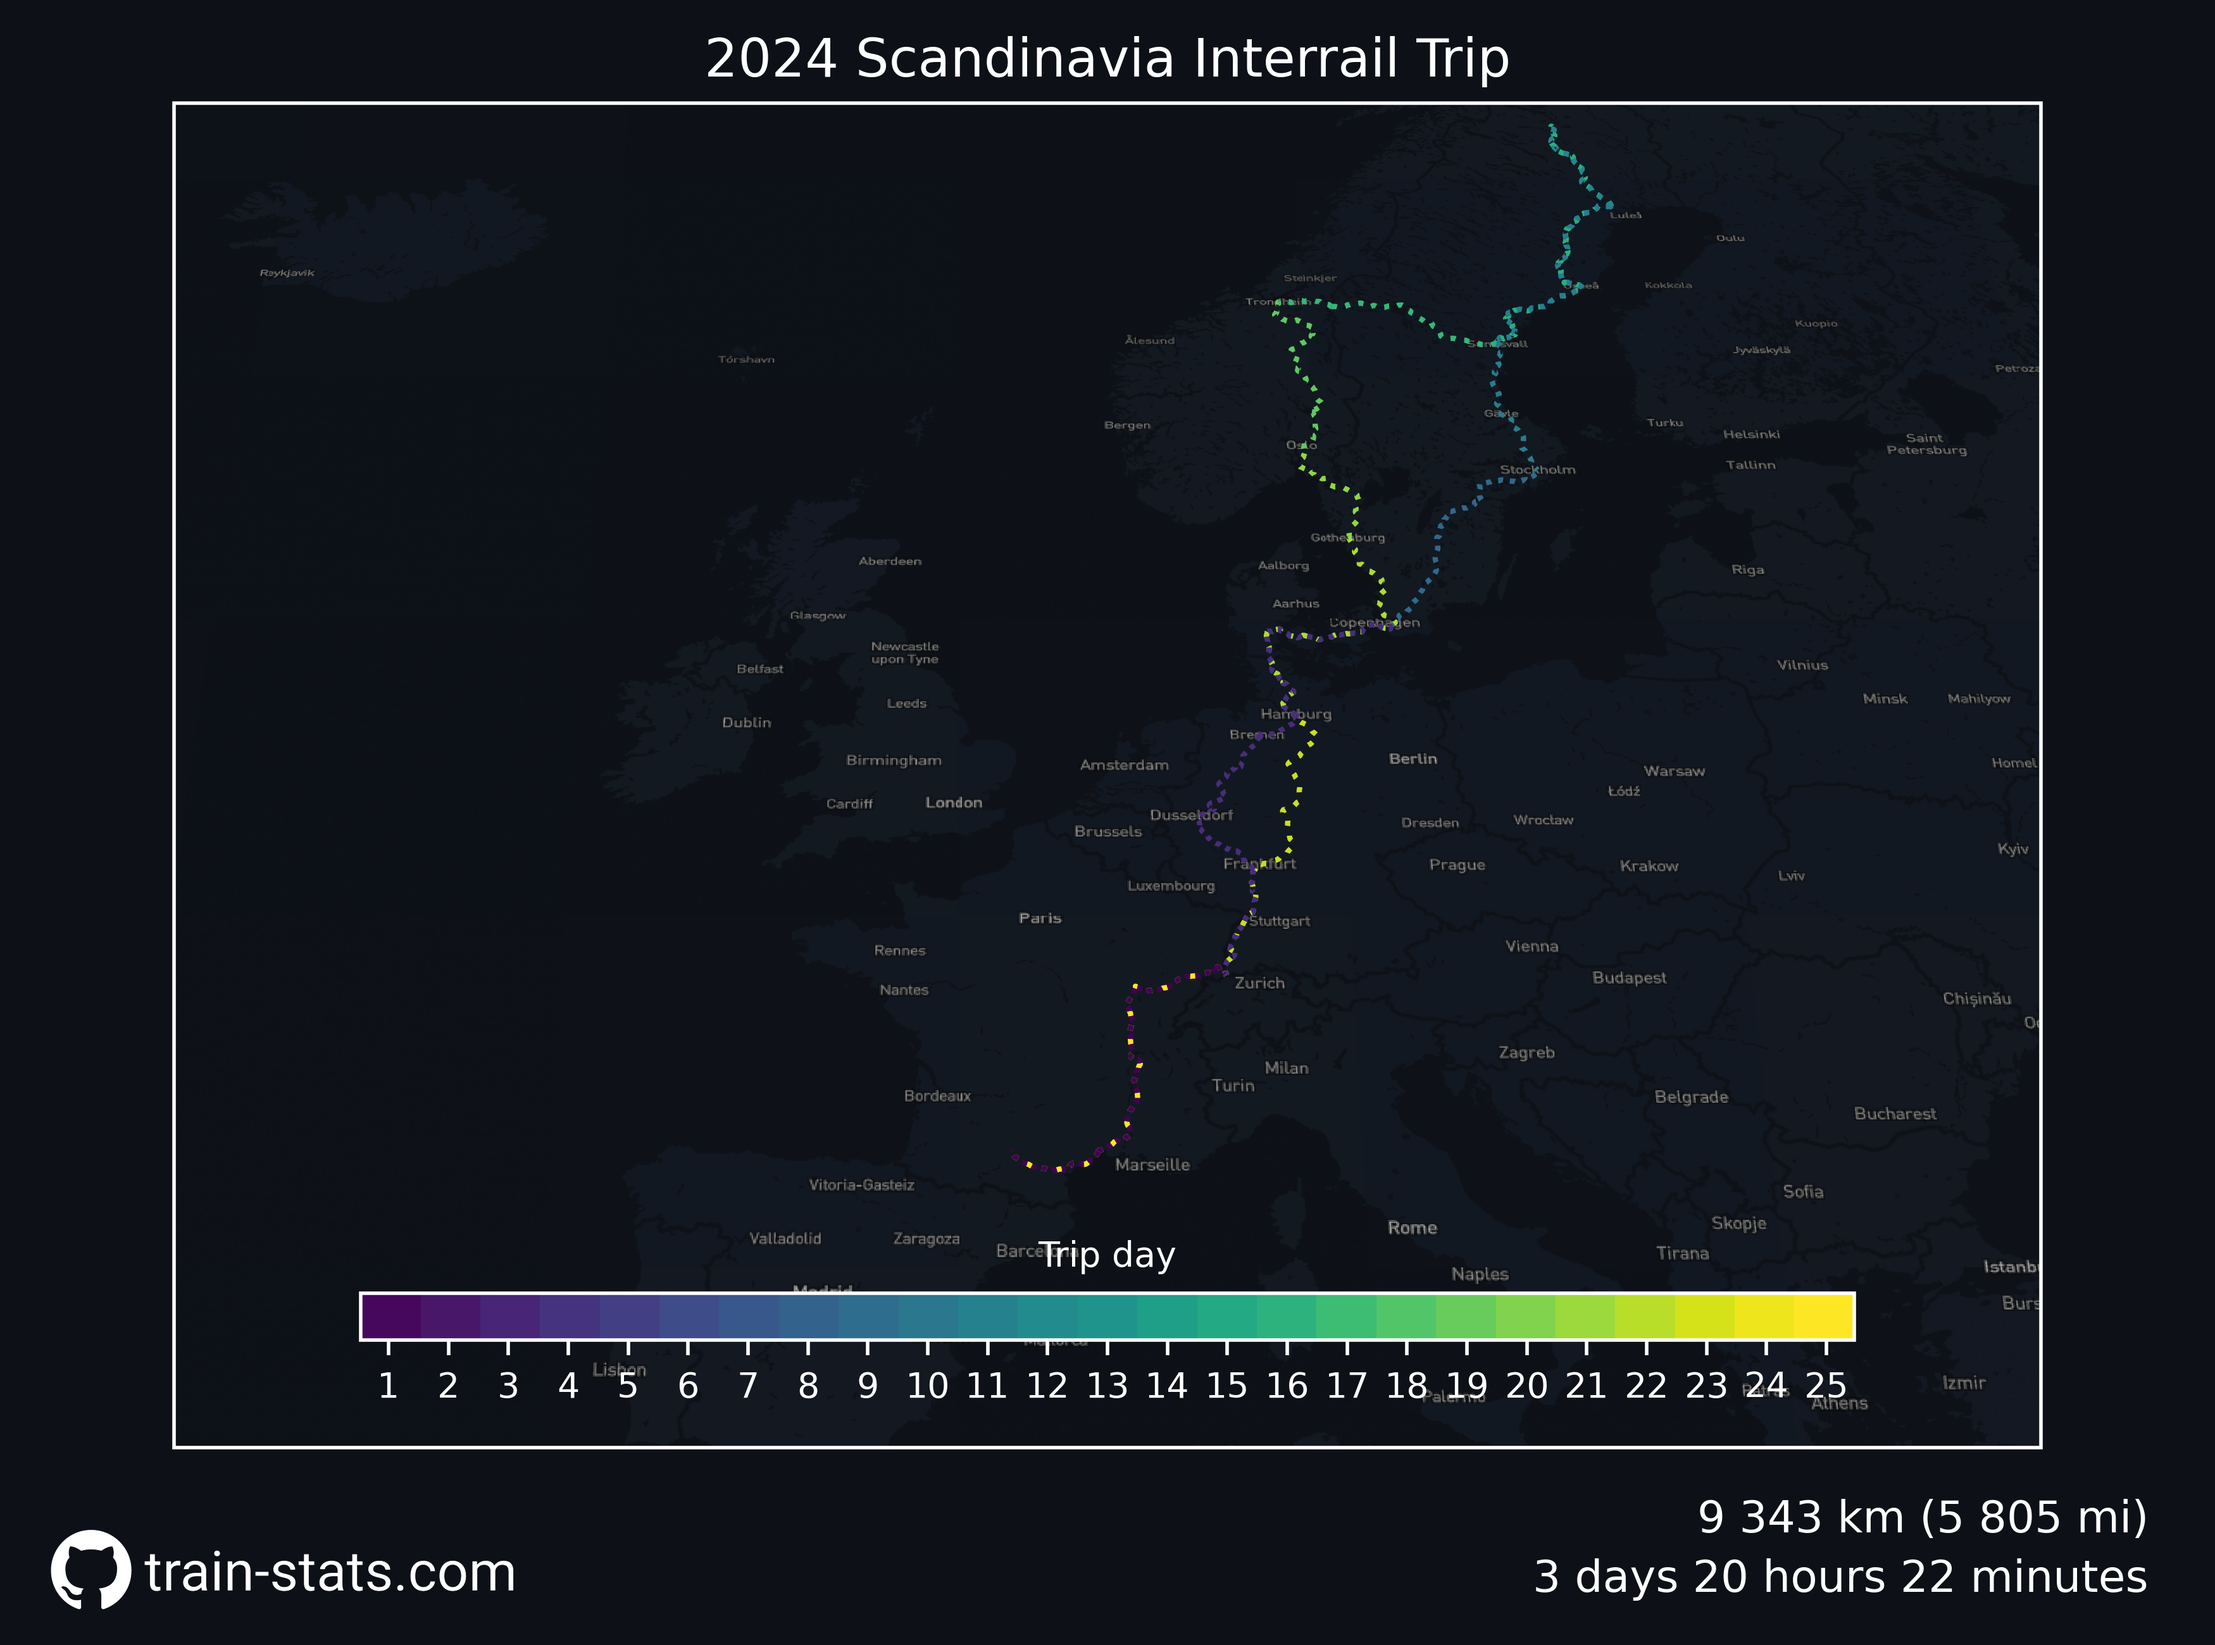
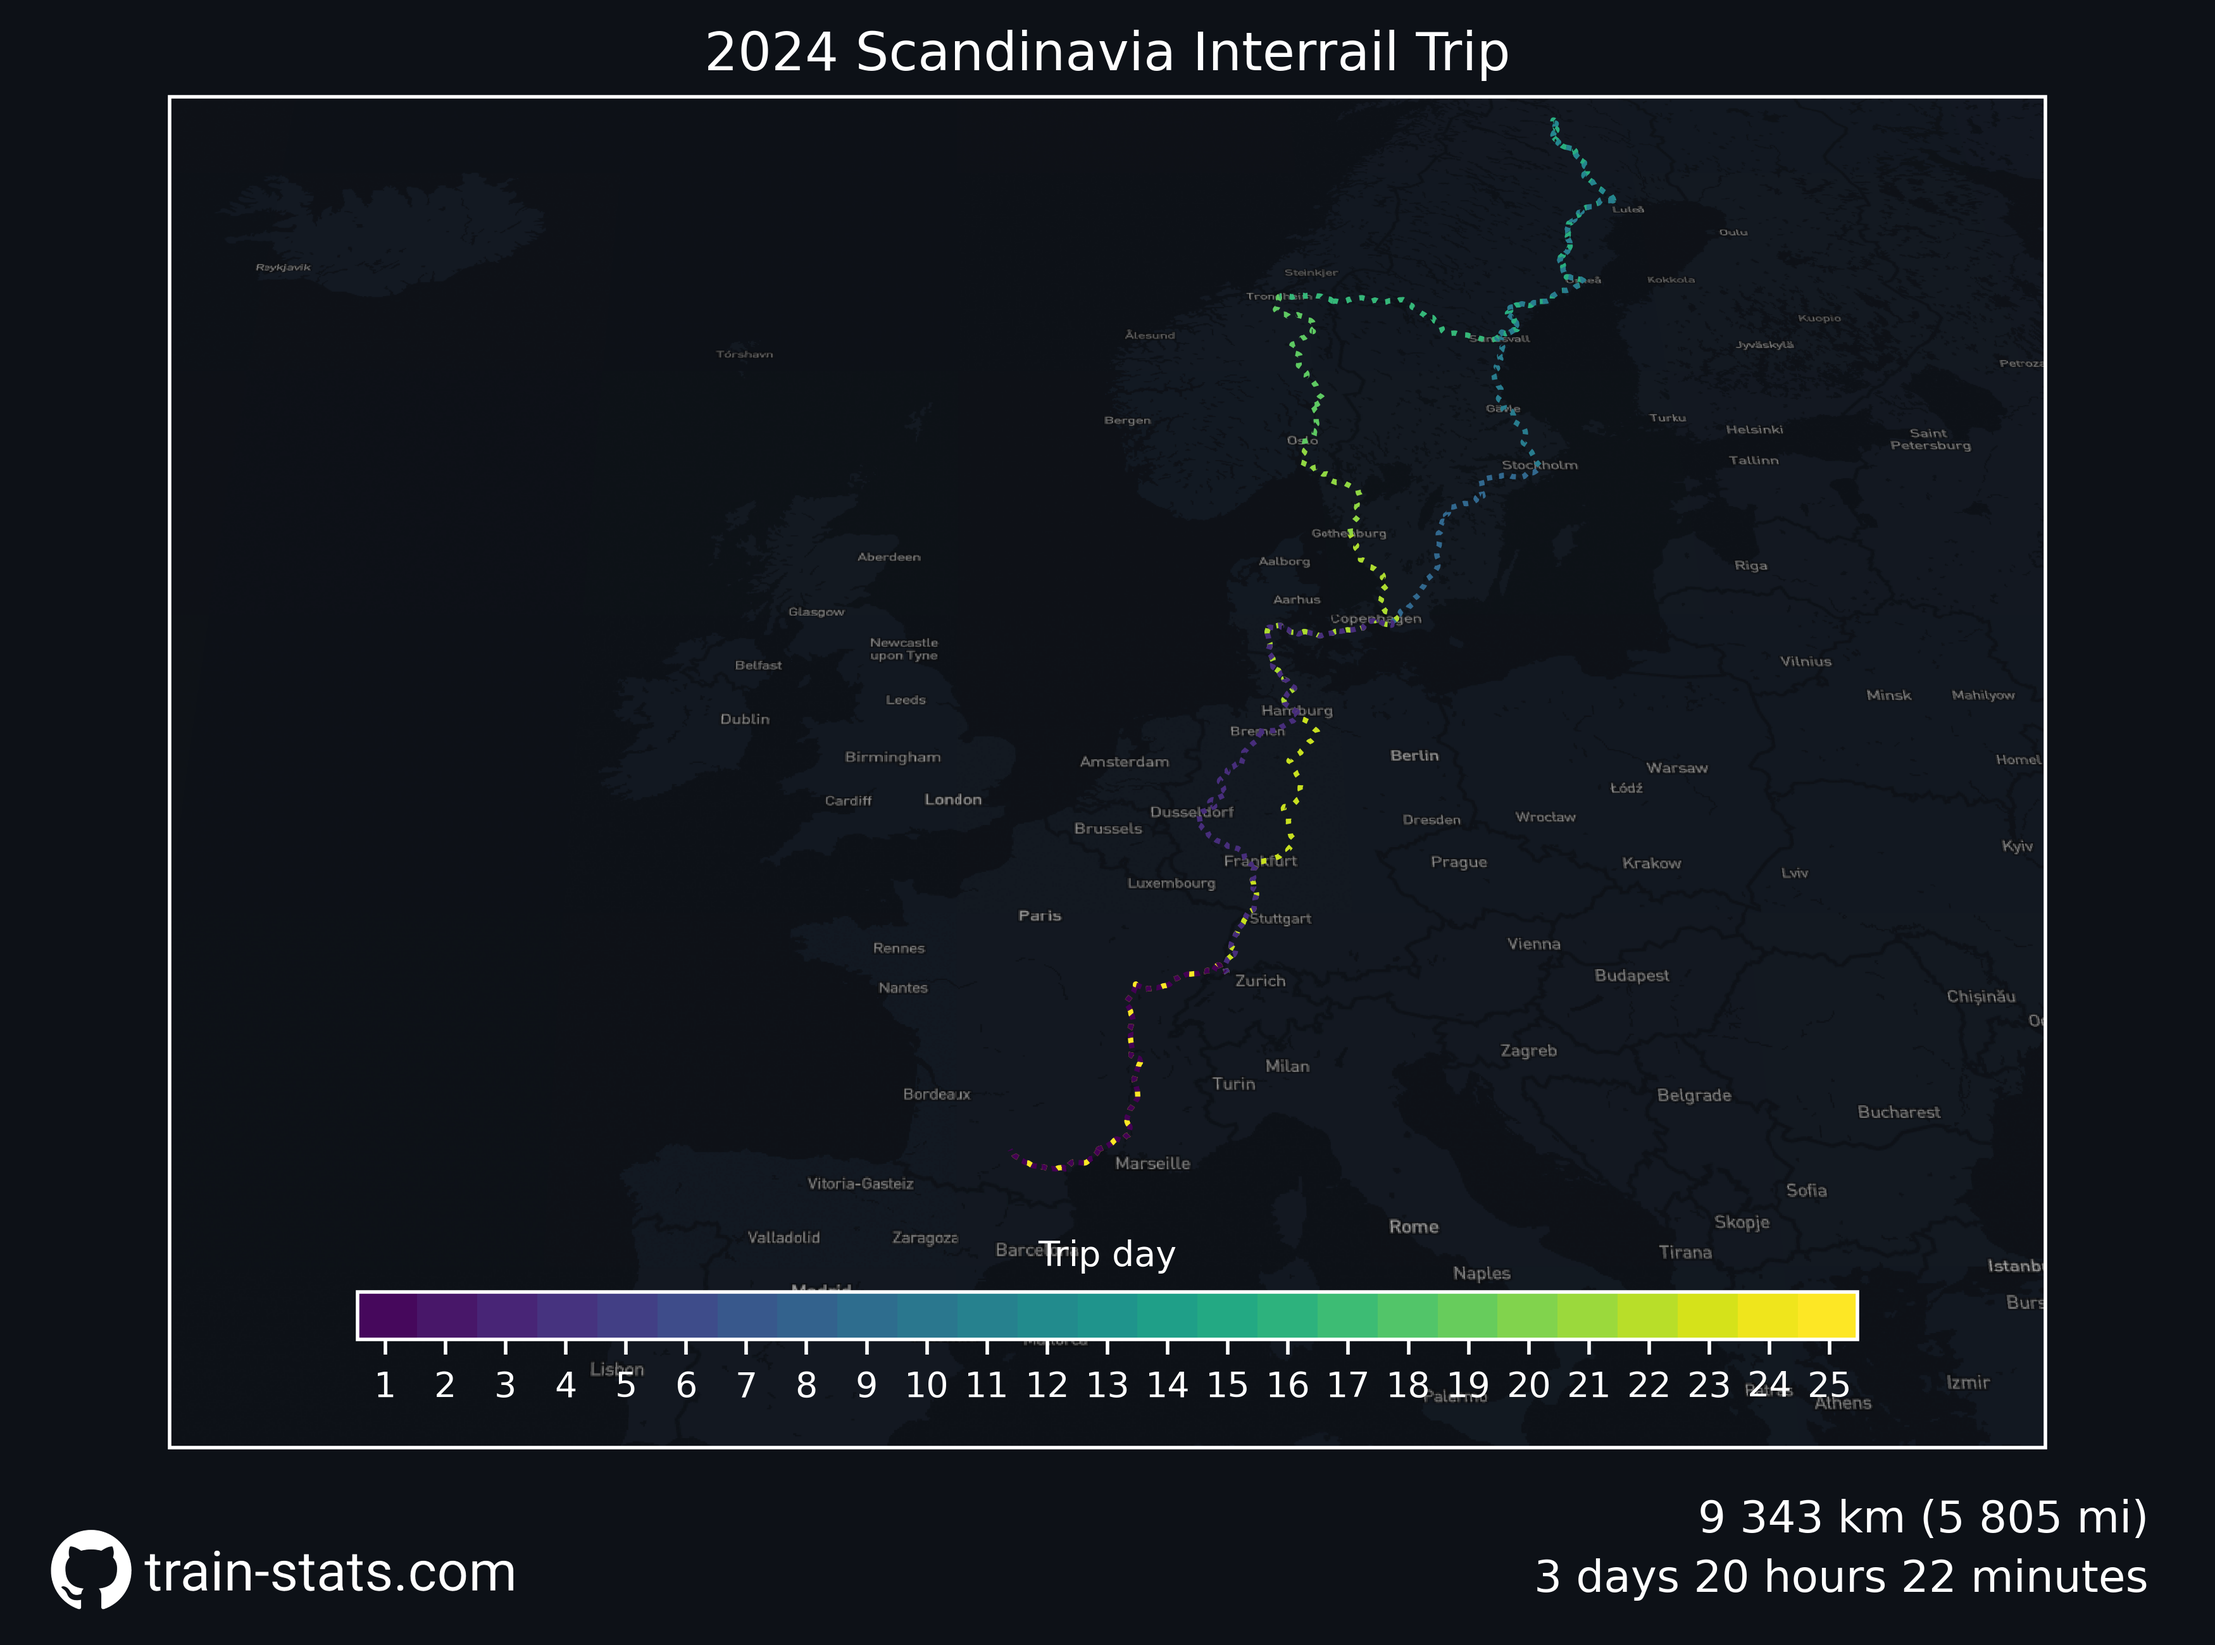
added scandinavia portrait plot

diff --git a/src/plotsCodes/scandinavia_2024_portrait.py b/src/plotsCodes/scandinavia_2024_portrait.py
@@ -1,0 +1,104 @@
+import json
+from datetime import datetime
+
+import matplotlib
+import matplotlib.cm as cm
+import matplotlib.pyplot as plt
+import numpy as np
+from cartopy.crs import Robinson, PlateCarree
+from cartopy.io.img_tiles import MapboxStyleTiles
+from matplotlib.colors import LinearSegmentedColormap
+from tqdm import tqdm
+
+from utils import dark_figure, finish_map, JOURNEYS_PATH, extract_trips_journeys, compute_stats
+
+# Trip start/end dates
+START = datetime(2024, 4, 26, 0, 0, 0)
+END = datetime(2024, 5, 20, 23, 59, 59)
+
+# Setup map boundaries
+LON_MIN = -2.4
+LON_MAX = 19.4
+LAT_MIN = 38.6
+LAT_MAX = 69
+ZOOM_LEVEL = 5
+
+
+def plot_scandinavia_2024_portrait(trips, mapbox_style_token, mapbox_style_id):
+    # Compute trips and journeys dataframe
+    trips, journeys = extract_trips_journeys(trips, filter_start=START, filter_end=END)
+
+    # Setup figure
+    fig, ax = dark_figure(grid=False, projection=Robinson(), figsize=(4, 7.1111))
+    request = MapboxStyleTiles(mapbox_style_token, "nosu", mapbox_style_id, cache=False)
+    extent = [LON_MIN, LON_MAX, LAT_MIN, LAT_MAX]
+    ax[0].set_extent(extent)
+    ax[0].add_image(request, ZOOM_LEVEL, regrid_shape=3000)
+
+    # For all journeys in the dataset
+    now = datetime.now()
+    trip_duration_days = (END - START).days + 1
+    color_map = matplotlib.colormaps["viridis"]
+
+    trip_list = trips.index.to_list()
+    for trip in tqdm(trip_list, ncols=150, desc="Scandinavia 2024 (portrait)"):
+        # Get the departure datetime
+        trip_departure = trips.loc[trip, "Departure (Local)"]
+        # Compute the trip day number
+        trip_day = (trip_departure.date() - START.date()).days + 1
+        # Color corresponding to the trip day
+        trip_ratio = (trip_day - 1) / (trip_duration_days - 1)  # value must be between 0 and 1
+        c = color_map(trip_ratio)
+
+        # Dashes or not
+        if trips.loc[trip, "Arrival (Local)"] < now:
+            s = "-"
+            dashes = [1, 0]
+        else:
+            s = ":"
+            dashes = [1, 1 + trip_ratio]
+
+        # Plot the trip
+        with open(JOURNEYS_PATH + trips.loc[trip, "journey"] + ".geojson", 'r', encoding="utf8") as f:
+            geojson = json.load(f)
+            coords = np.array(geojson['features'][0]['geometry']['coordinates'])
+            ax[0].plot(coords[:, 0], coords[:, 1], s, linewidth=1.7, color=c, transform=PlateCarree(),
+                       zorder=(trip_duration_days - trip_day) + 2,
+                       solid_capstyle="round",
+                       dashes=dashes
+                       )
+
+    # Logging
+    print("Finalizing plot...")
+
+    # Setup colorbar
+    color_map_list = np.array([color_map(i) for i in range(color_map.N)])
+    custom_map = LinearSegmentedColormap.from_list(
+        'Custom cmap', color_map_list.tolist(), color_map.N)
+    bounds = np.linspace(0, trip_duration_days + 2, trip_duration_days + 1)
+    sm = cm.ScalarMappable(cmap=custom_map, norm=plt.Normalize(vmin=0, vmax=trip_duration_days + 1))
+    sm.set_array([])
+    cax = ax[0].inset_axes([0.08, 0.08, 0.8, 0.035])
+    cbar = fig.colorbar(sm, orientation="horizontal", cax=cax, boundaries=bounds,
+                        ticks=np.linspace(0.5, trip_duration_days + 1.5, 5))
+    cbar.ax.set_xticklabels(np.arange(1, trip_duration_days + 1, 6))
+    cbar.ax.set_title("Trip day", color="white", fontsize=8)
+    cbar.outline.set_edgecolor('white')
+    plt.setp(plt.getp(cbar.ax, 'xticklabels'), color='white', fontsize=12)
+    plt.tight_layout()
+
+    # Stats
+    distance_str, duration_str = compute_stats(trips, start=START, end=END)
+    fig_axes = fig.add_axes([0.95, 0.027, 0.3, 0.3], anchor="SE", zorder=1)
+    index = duration_str.find(" out of")
+    if index != -1:
+        # Split the duration in two lines
+        fig_axes.text(0, 0.08, duration_str[:index], ha="right", va="bottom", color="white", fontsize=9)
+        fig_axes.text(0, 0, duration_str[index:], ha="right", va="bottom", color="white", fontsize=9)
+        fig_axes.text(0, 0.19, distance_str, ha="right", va="bottom", color="white", fontsize=9)
+    else:
+        fig_axes.text(0, 0.03, duration_str, ha="right", va="bottom", color="white", fontsize=9)
+        fig_axes.text(0, 0.16, distance_str, ha="right", va="bottom", color="white", fontsize=9)
+    fig_axes.axis("off")
+
+    finish_map(fig, ax, "2024_scandinavia_portrait", colorbar=cbar, show=False, logo_position=[0.05, 0.656, 0.4, 0.3])

diff --git a/src/utils.py b/src/utils.py
@@ -1,4 +1,4 @@
-from datetime import datetime, timezone
+from datetime import datetime
 from math import prod
 import os
 import matplotlib.pyplot as plt
@@ -38,26 +38,23 @@ def dark_figure(subplots=(1, 1), figsize=(7, 5.2), projection=None, grid=False):
 
 def finish_map(
         fig,
-        axes,
+        _axes,
         path,
         show,
         save_transparent=False,
         colorbar=None,
+        logo_position=None,
 ):
-    axes[0].set_xlabel(
-        datetime.now(timezone.utc).strftime(
-            "Plot generated on %Y/%m/%d at %H:%M:%S UTC."
-        ),
-        color="dimgray",
-        labelpad=10,
-    )
 
     if colorbar is not None:
         colorbar.ax.xaxis.set_tick_params(color="white")
         colorbar.outline.set_edgecolor("white")
         plt.setp(plt.getp(colorbar.ax, "xticklabels"), color="white", fontsize=8)
     fig.subplots_adjust(bottom=0.12)
-    fig_axes2 = fig.add_axes([0.014, 0.02, 0.3, 0.3], anchor="SW", zorder=1)
+    if logo_position:
+        fig_axes2 = fig.add_axes(logo_position, anchor="NW", zorder=1)
+    else:
+        fig_axes2 = fig.add_axes([0.014, 0.02, 0.3, 0.3], anchor="SW", zorder=1)
     fig_axes2.imshow(GITHUB_BADGE)
     fig_axes2.axis("off")
     if save_transparent:

diff --git a/src/automation.py b/src/automation.py
@@ -2,6 +2,7 @@ from processing import process_data
 from plotsCodes.all_europe import plot_all_europe
 from plotsCodes.germany_2023 import plot_germany_2023
 from plotsCodes.scandinavia_2024 import plot_scandinavia_2024
+from plotsCodes.scandinavia_2024_portrait import plot_scandinavia_2024_portrait
 from utils import get_mapbox_secrets
 
 if __name__ == "__main__":
@@ -16,7 +17,8 @@ if __name__ == "__main__":
     plot_all_europe(trips, mapbox_style_id=MAPBOX_STYLE_ID, mapbox_style_token=MAPBOX_STYLE_TOKEN)
     plot_germany_2023(trips, mapbox_style_id=MAPBOX_STYLE_ID, mapbox_style_token=MAPBOX_STYLE_TOKEN)
     plot_scandinavia_2024(trips, mapbox_style_id=MAPBOX_STYLE_ID, mapbox_style_token=MAPBOX_STYLE_TOKEN)
-    
+    plot_scandinavia_2024_portrait(trips, mapbox_style_id=MAPBOX_STYLE_ID, mapbox_style_token=MAPBOX_STYLE_TOKEN)
+
     # Exit successfully
     print("All done!")
     exit(code=0)
